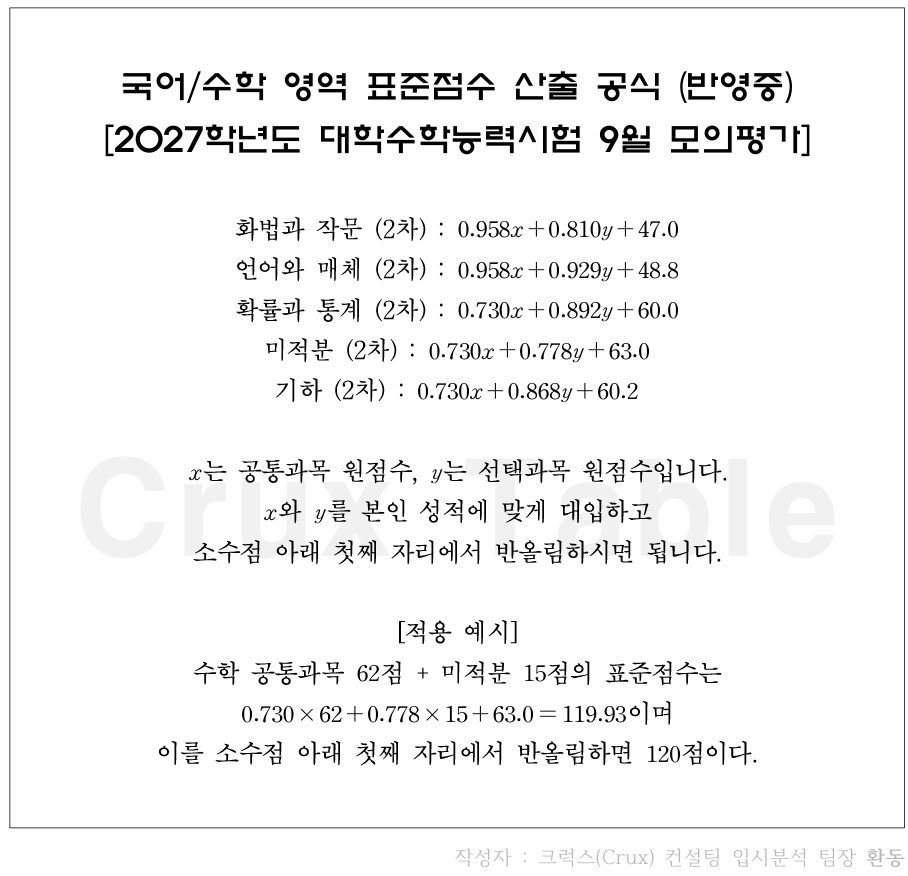
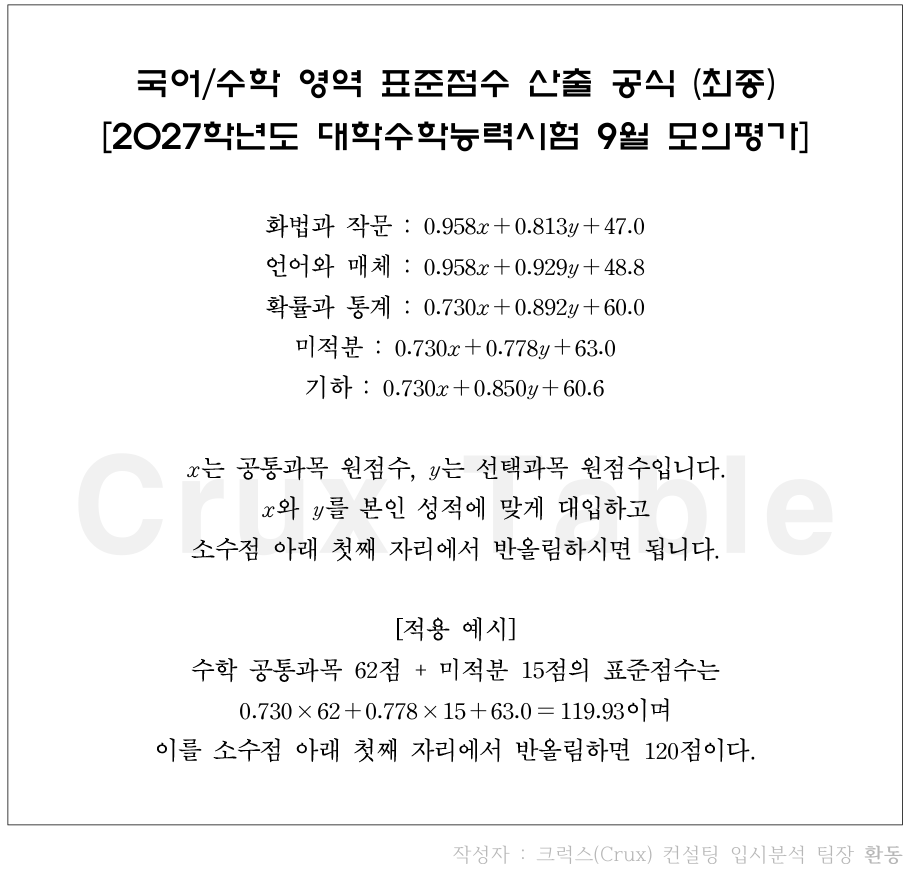
2709 final

diff --git a/js/data.js b/js/data.js
@@ -6846,7 +6846,7 @@ let data = {
     "20279sat": {
         "국어": [
             {
-                "화법과 작문": [0.958, 0.810, 47.0],
+                "화법과 작문": [0.958, 0.813, 47.0],
                 "언어와 매체": [0.958, 0.929, 48.8]
             },
 ["144", "100", "1"],
@@ -6950,7 +6950,7 @@ let data = {
     {
         "확률과 통계": [0.730, 0.892, 60.0],
         "미적분": [0.730, 0.778, 63.0],
-        "기하": [0.730, 0.868, 60.2],
+        "기하": [0.730, 0.850, 60.6],
     },
 ["137", "100", "1"],
 ["136", "99", "1"],
